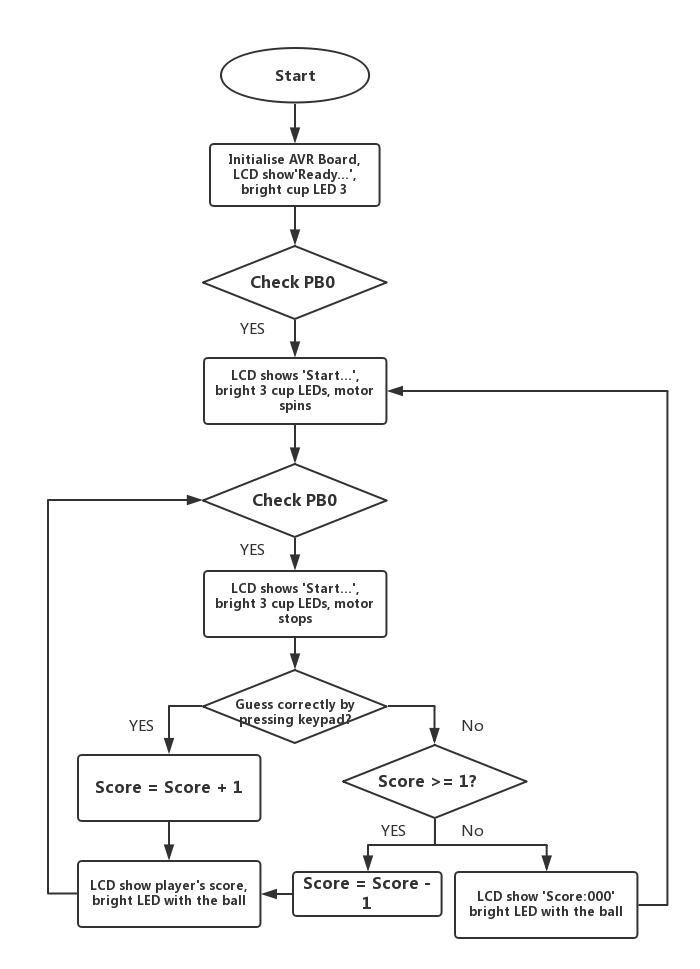
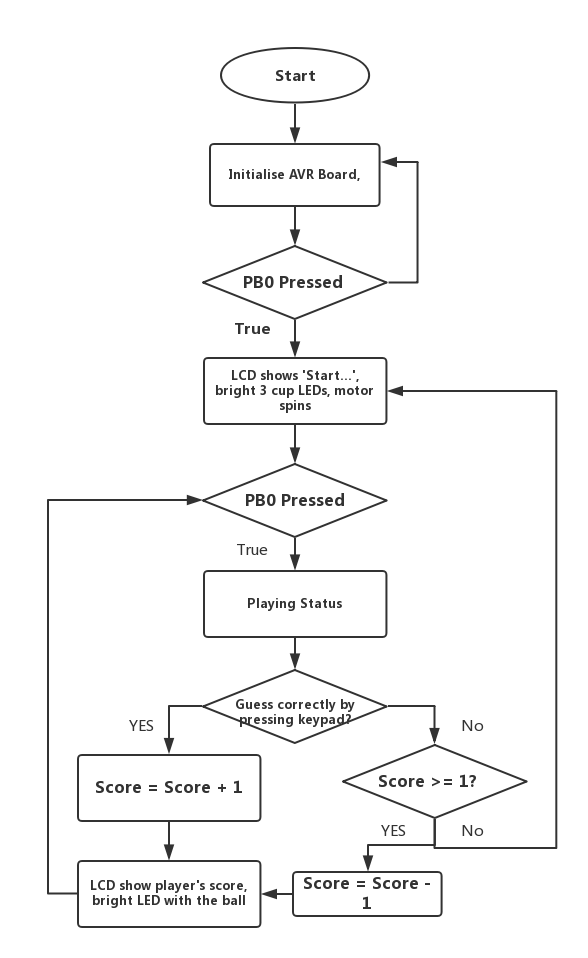
Add files via upload

diff --git a/COMP9032/lab03/Project/README.md b/COMP9032/lab03/Project/README.md
@@ -9,9 +9,10 @@
 4. Push Button 0 interrupt
 5. Get the keypad input value
 6. Shuffle the ‘cups’ by generating a random number
-7. Determine whether the guess is correct
+7. Determine guess result and game status
+8. Appendix: register used and flow chart
 
-### LCD Display
+### 1. LCD Display
 
 Most of initialisation code are from sample code from Lab04 — Task01. 
 
@@ -37,7 +38,7 @@ Other functions can deal with LCD settings and debounce the electric signal.
 
 4. When the user press PB0 again, go back to step 2 for another round.
 
-### LED Display
+### 2. LED Display
 
 LEDs are divided into two groups. 
 
@@ -45,31 +46,14 @@ LEDs are divided into two groups.
 > 					2. Connect LED BAR pin6-9 to PORTC4-7 (result indicators)  
 
 
-Two macros are designed to cooperate with controlling turn on and turn off the LED by setting and clearing relative bit in PORTC.
+Two macros are designed to cooperate with controlling turn on and turn off the LED by setting and clearing relative bit in PORTC. The scenario of executing these macros is when showing the correct answer by brighten the relative LED, flash four result indicator LEDs, bright three cup LEDs in dimmed light.
 
 > turn_on_led: @0 is the LED supposed to be switched, set this bit  
 > turn_off_led: @0 is the LED supposed to be switched, clear this bit  
 
 LED dimmed light:
 
-
-### Generate Random Number 
-
-As there are totally three cups are shuffling, I decided to generate a number could be [0, 1, 2]. Timer0 is initialised to generate a random number according to time. To make the number become 0, 1 or 2. I designed a subroutine to imitate mod calculation. 
-
-
-```asm6502
-mod3:
-	minus3:
-	subi temp1, 3		; temp -= 3
-	cpi temp1, 3		; compare temp1 with 3
-	brsh minus3			; if temp >=3, continue the loop
-	ret
-```
-
-Then, I get the value from the keypad ASCII that player pressed the key 0, 1 or 2 to make a guess. By comparing values in these two register, the program can make a decision whether this guess is correct. Then increase or decrease player’s score.
-
-### Motor Control
+### 3. Motor Control
 
 When the game is at start status and when player’s score becomes 0 and made a wrong guess, motor would start to spin. When the player pressed PB0 to make a guess and when during the game that the player’s score is not less than 0, the motor wouldn’t spin.
 
@@ -82,10 +66,52 @@ Two macros are designed to control the switch of motor
 > motor_start:  set bit PORTC3, make motor spin   
 > motor_stop: clear bin PORTC3, make motor stop  
 
-### Keypad Control
+### 5. Keypad Control
 
-Four registers  `r16, r17, r18, r19` 
+Most of initialisation code are from sample code from Lab04 — Task01. 
 
-### Flow Chart
+Four registers  `r16, r17, r18, r19`  are used during scan the keypad, 
+
+### 6. Shuffle the ‘cups’ by generating a random number
+
+As there are totally three cups are shuffling, I decided to generate a number could be [0, 1, 2]. Timer0 is initialised to generate a random number according to time. To make the number become 0, 1 or 2. I designed a subroutine to imitate mod calculation. 
+
+
+```asm6502
+mod3:
+	minus3:
+	subi temp1, 3		; temp -= 3
+	cpi temp1, 3		; compare temp1 with 3
+	brsh minus3			; if temp >=3, continue the loop
+	call sleep_5ms
+	ret
+```
+
+### 7. Determine guess result and game status
+
+Getting the value on `r16`  from the keypad ASCII that player pressed the key 0, 1 or 2 to make a guess and the value on `temp1`  generated by subroutine  `mod3` .
+By comparing values in these two register, the program can make a decision whether this guess is correct. Then increase or decrease player’s score.
+After a guess has been made, the LED would show the correct answer, if player’s score is larger than 0, it would be shown 
+
+### 8. Appendix
+
+**Register used**
+
+```asm6502
+.def row    =r16		; value for row number
+.def col    =r17		; value for column number
+.def rmask  =r18		; mask for current row during scan
+.def cmask  =r19		; mask for current column during scan
+.def temp1  =r20		; used as template parameter
+.def temp2  =r21		; used as template parameter
+   
+.def score  =r22			; record player's score
+.def gameStatus = r23		; initial game status ==> gameStatus=0; playing game status ==> gameStatus=1
+.def gameStart = r15		; flag to see whether the game has start
+```
+
+`r16`  is also used repeatedly during other cycles (setting delays, loading keypad value, recording lcd command and data)
+
+**Flow Chart**
 
 ![pic](https://github.com/JosephMLX/PGlife/blob/master/COMP9032/lab03/Project/Flow%20Chart.jpg)
